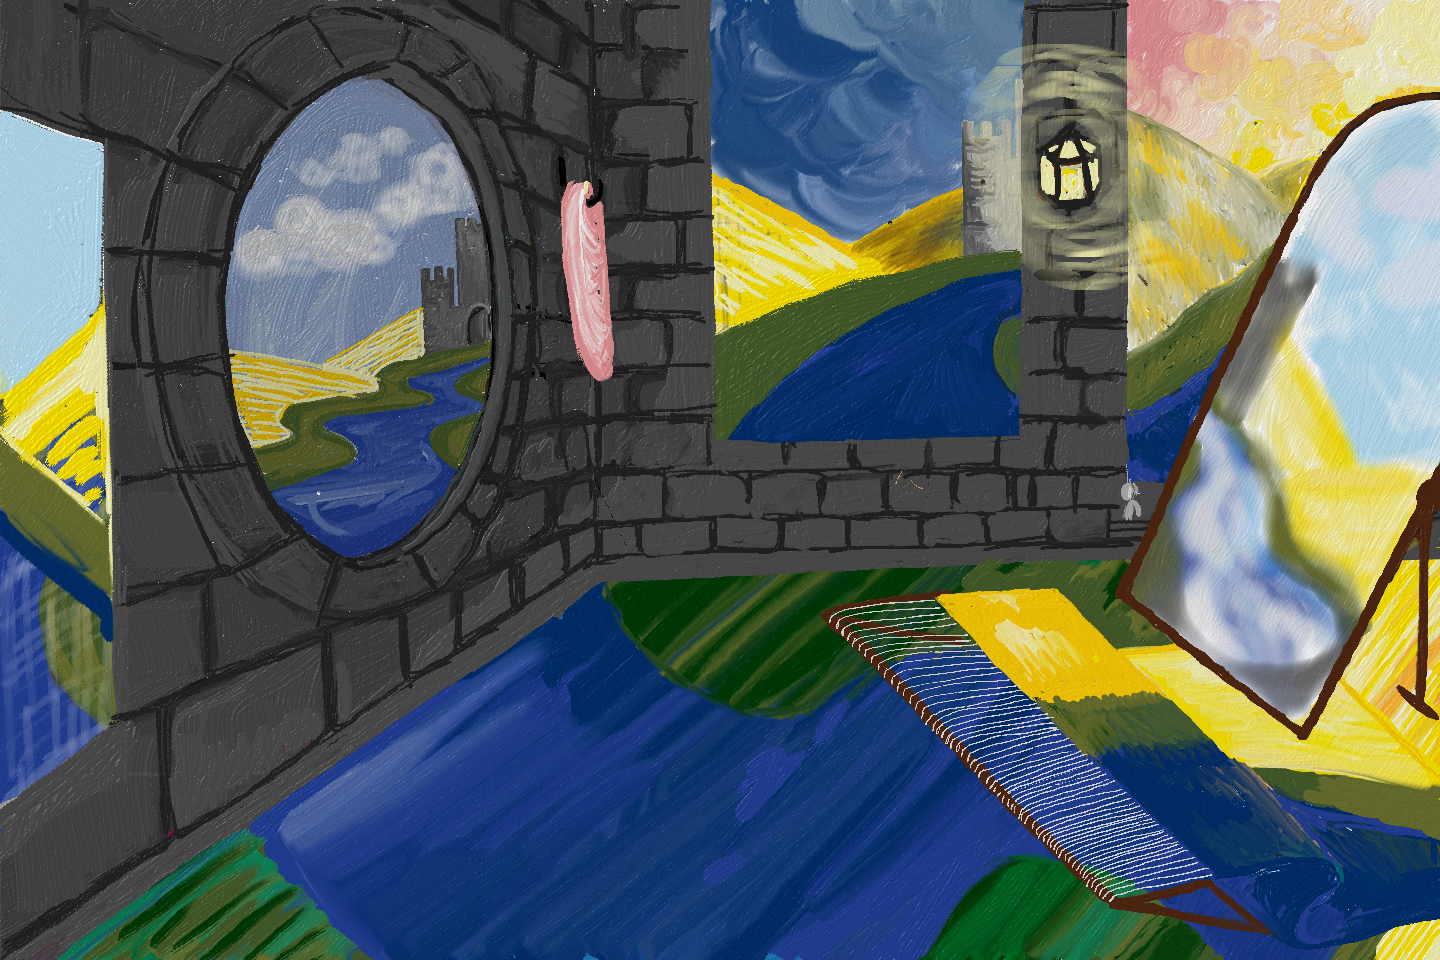
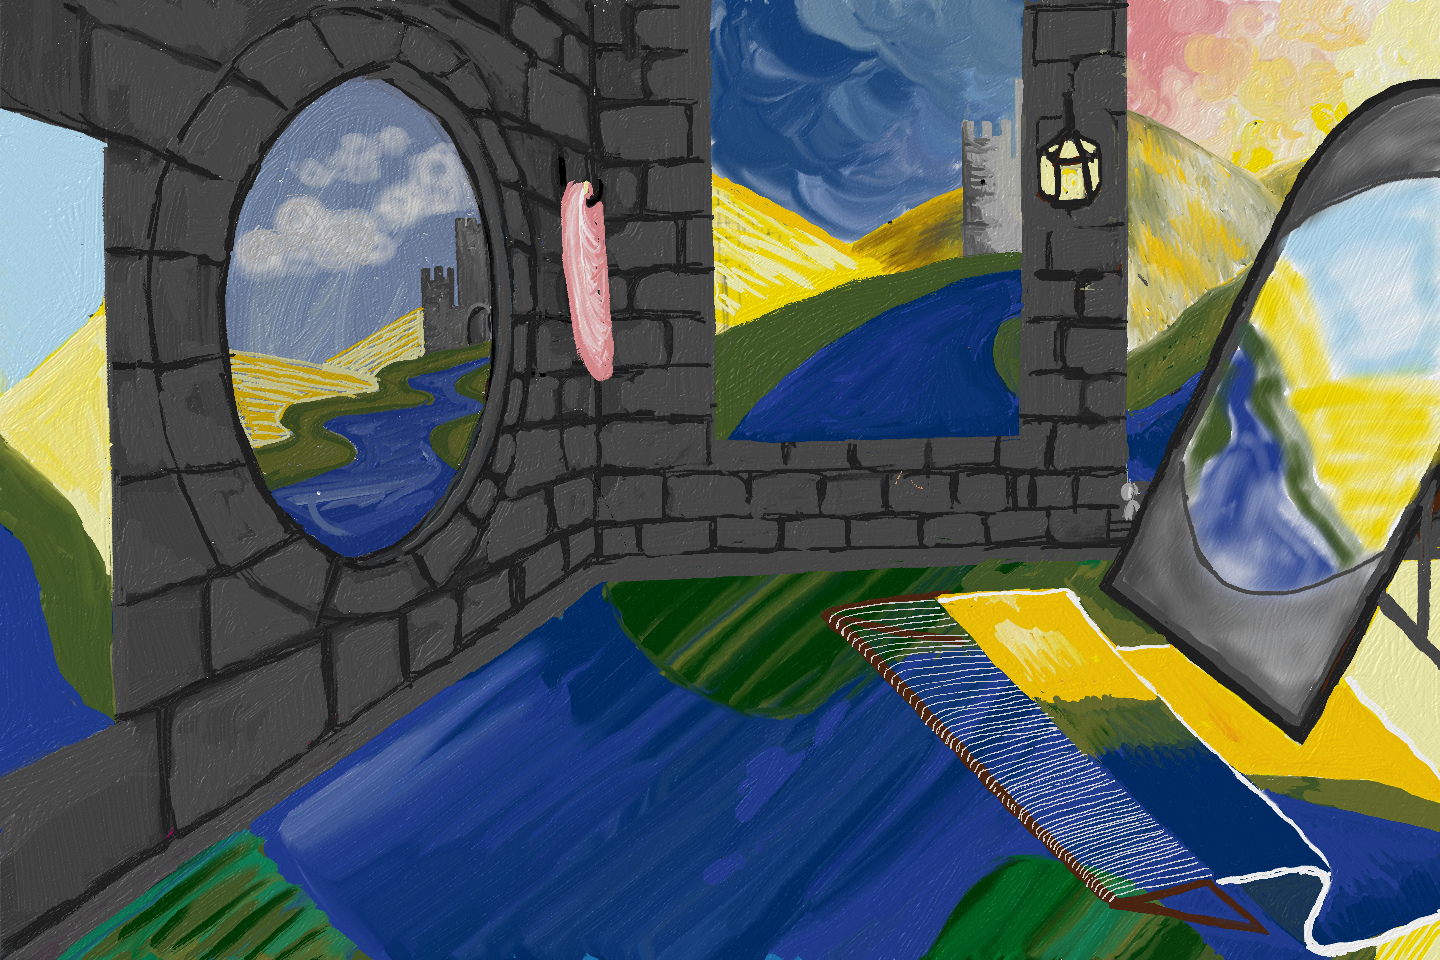
Add arms. Update bg. More observations

diff --git a/src/gameplay.js b/src/gameplay.js
@@ -19,6 +19,34 @@ const observe = {
   'Window': {
     count: 0,
     text: ['On either side the river lie.', "No ... I can't look ..."]
+  },
+  'Mirror': {
+    count: 0,
+    text: ['My only respite from this weary room.']
+  },
+  'Tassel': {
+    count: 0,
+    text: ['A little detail goes a long way']
+  },
+  'Book': {
+    count: 0,
+    text: ['Some poems by Alfred, Lord Tennyson. What a hack']
+  },
+  'Lantern': {
+    count: 0,
+    text: ['The lantern fills my heart with hope and longing']
+  },
+  'Yarn': {
+    count: 0,
+    text: ['This cursed yarn is all my hands have to play with']
+  },
+  'Scarf': {
+    count: 0,
+    text: ["What do I need a scarf for? I can't even leave this room, let alone venture outside"]
+  },
+  'Hook': {
+    count: 0,
+    text: ['A hook to hang a scarf on. What more could one ask for?']
   }
 }
 
@@ -46,6 +74,7 @@ export default class GamePlay {
     this.game.load.image('Book', 'assets/book.png')
     this.game.load.image('Lady', 'assets/Lady.png')
     this.game.load.image('Yarn', 'assets/yarn.png')
+    this.game.load.image('LadyArms', 'assets/arms.png')
     this.game.load.atlasJSONHash('LadyHead', 'assets/ladyblink.png', 'assets/ladyblink.json')
     this.game.load.json('map', 'assets/map.json')
     this.game.load.audio('hungry', 'assets/hungry.wav')
@@ -92,12 +121,15 @@ export default class GamePlay {
       } else {
         bmd.ctx.rect(0, 0, width, height)
       }
-      bmd.ctx.fillStyle = '#00ff00' // 'transparent'
+      bmd.ctx.fillStyle = '#00ff00'
       bmd.ctx.fill()
 
       const x = spot.x * 0.75
       const y = spot.y * 0.75
       const sprite = this.game.add.sprite(x, y, bmd)
+
+      // comment for DEBUG
+      sprite.alpha = 0.0
       sprite.angle = spot.rotation
       sprite.boundsPadding = 0
       // sprite.width = spot.width * 0.75
@@ -122,7 +154,8 @@ export default class GamePlay {
     this.hoverText.stroke = '#000000'
     this.hoverText.strokeThickness = 4
 
-    this.speechText = this.game.add.text(this.game.width / 2, this.game.height - 50, '', { fill: '#ffffff' })
+    this.speechText = this.game.add.text(0, 0, '', { fill: '#ffffff', boundsAlignH: 'left', boundsAlignV: 'middle' })
+    this.speechText.setTextBounds(0, this.game.height - 150, this.game.width, 50)
     this.speechText.stroke = '#000000'
     this.speechText.strokeThickness = 4
     this.speechText.visible = false
